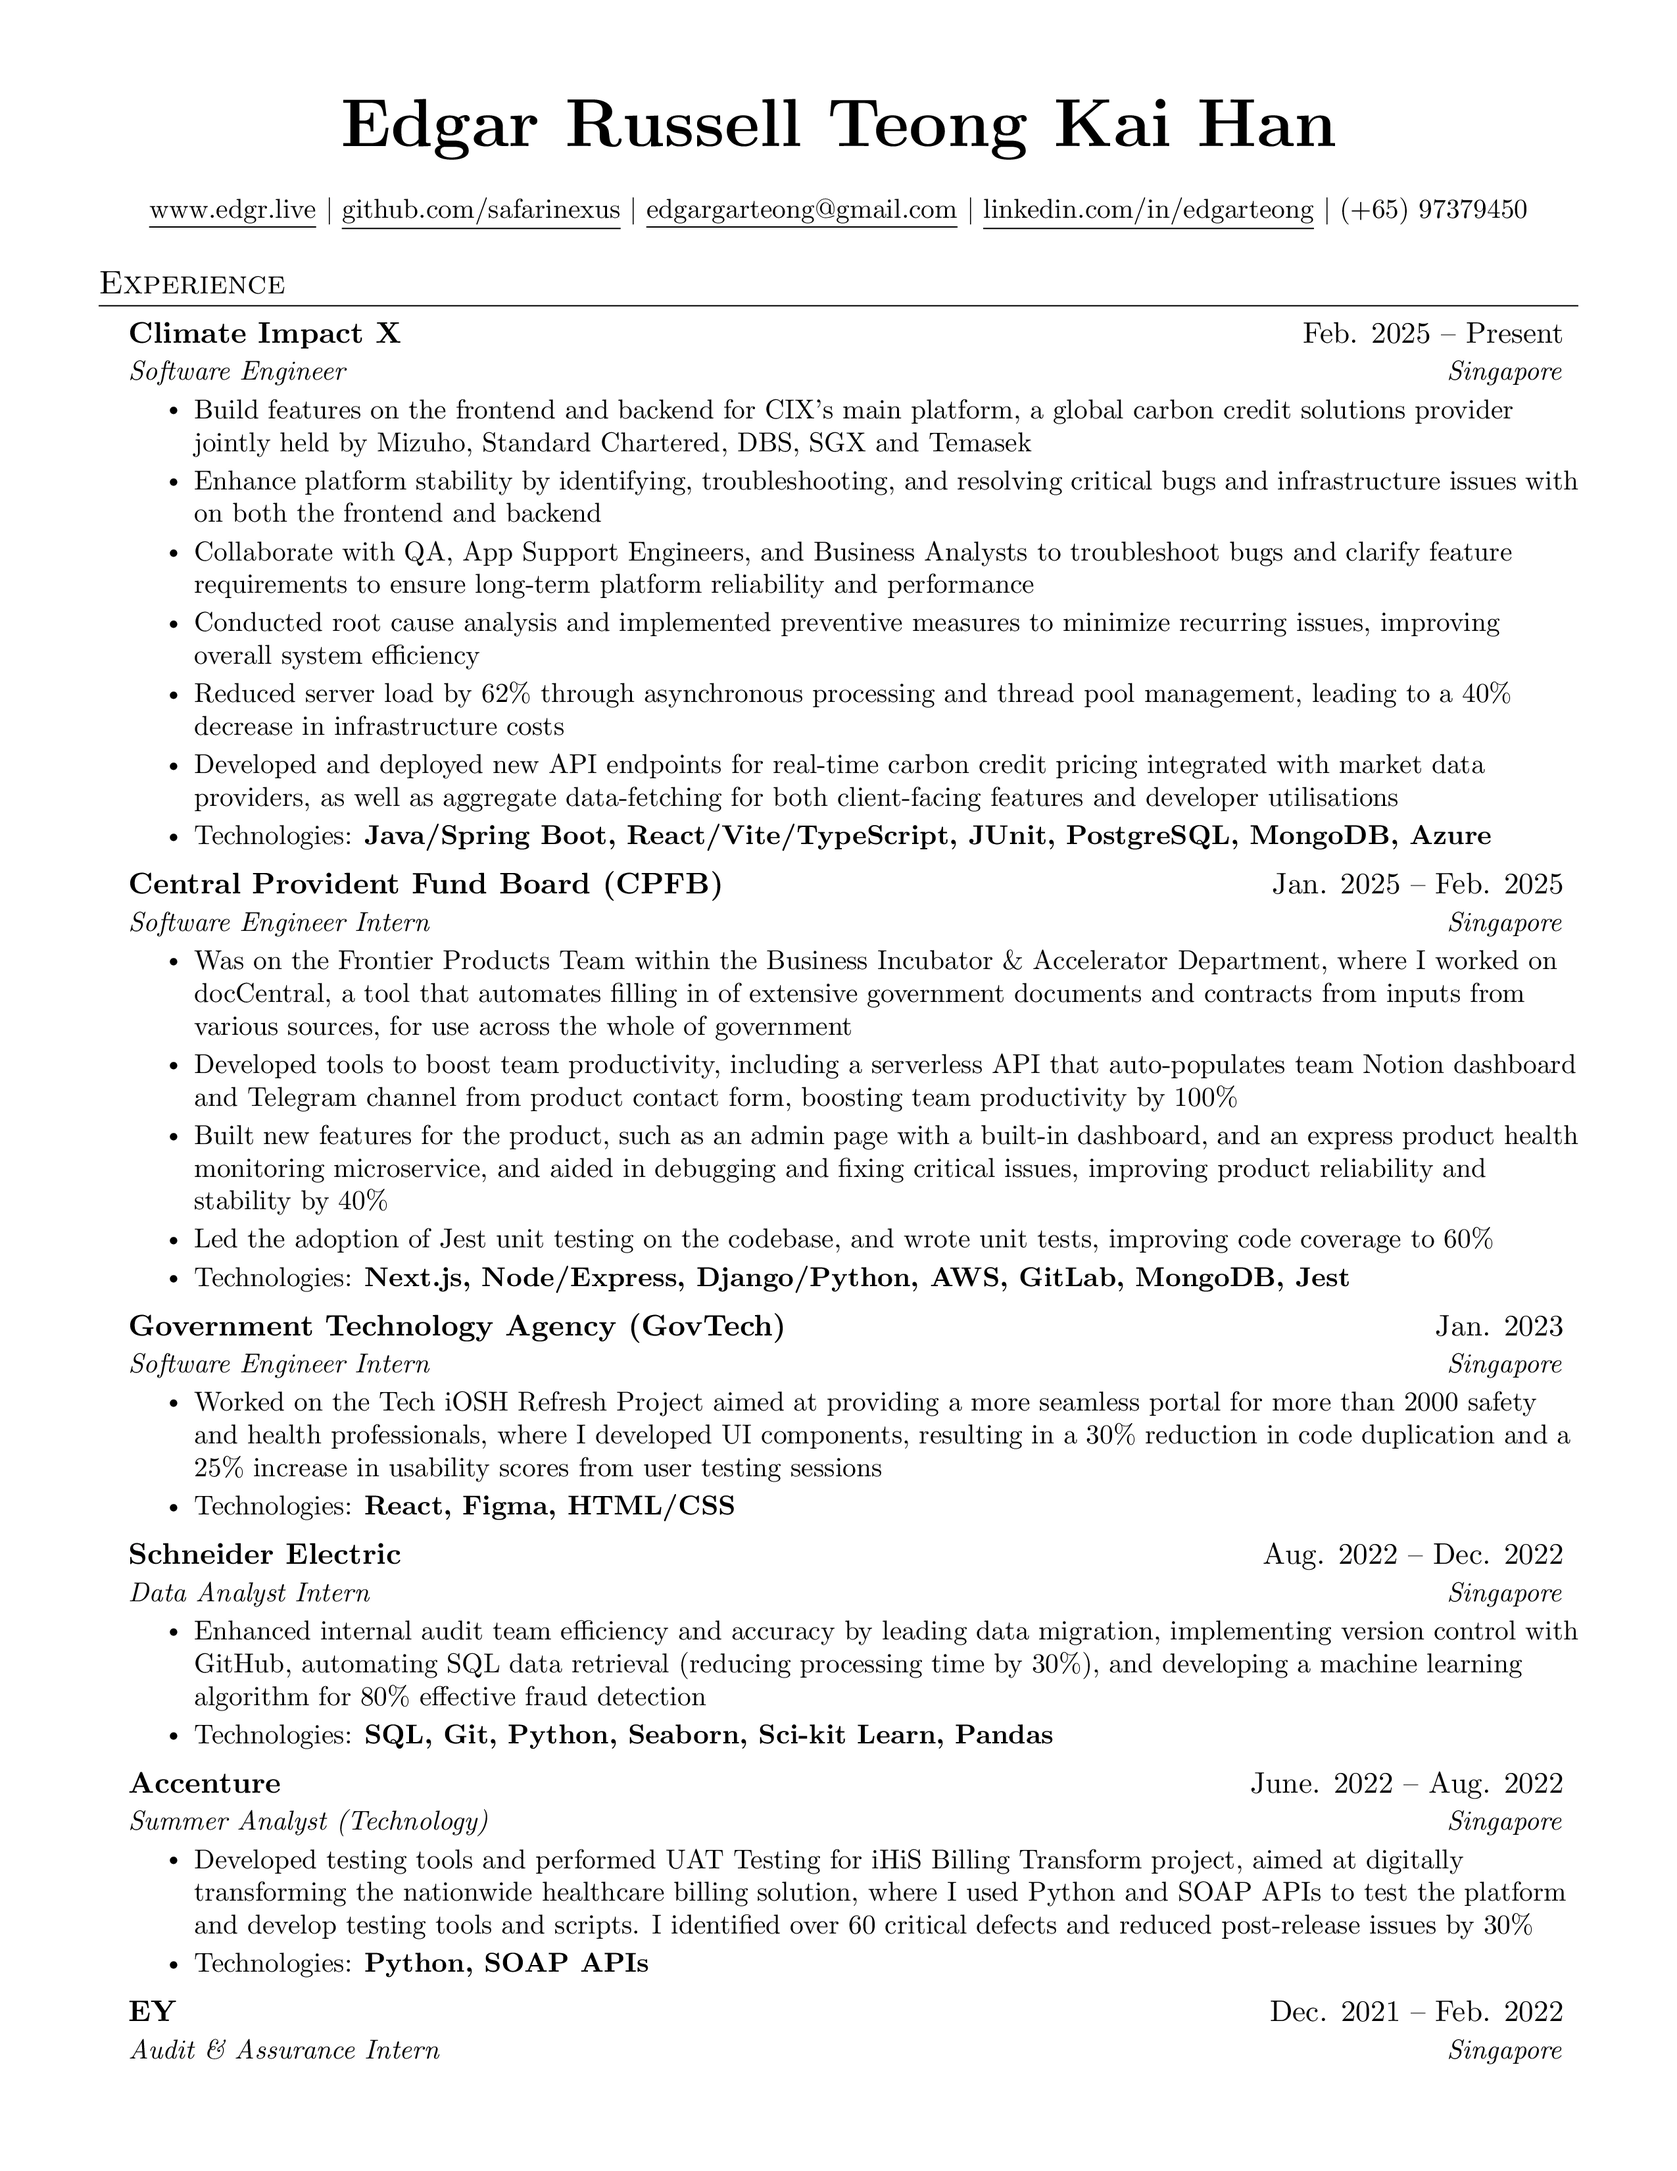
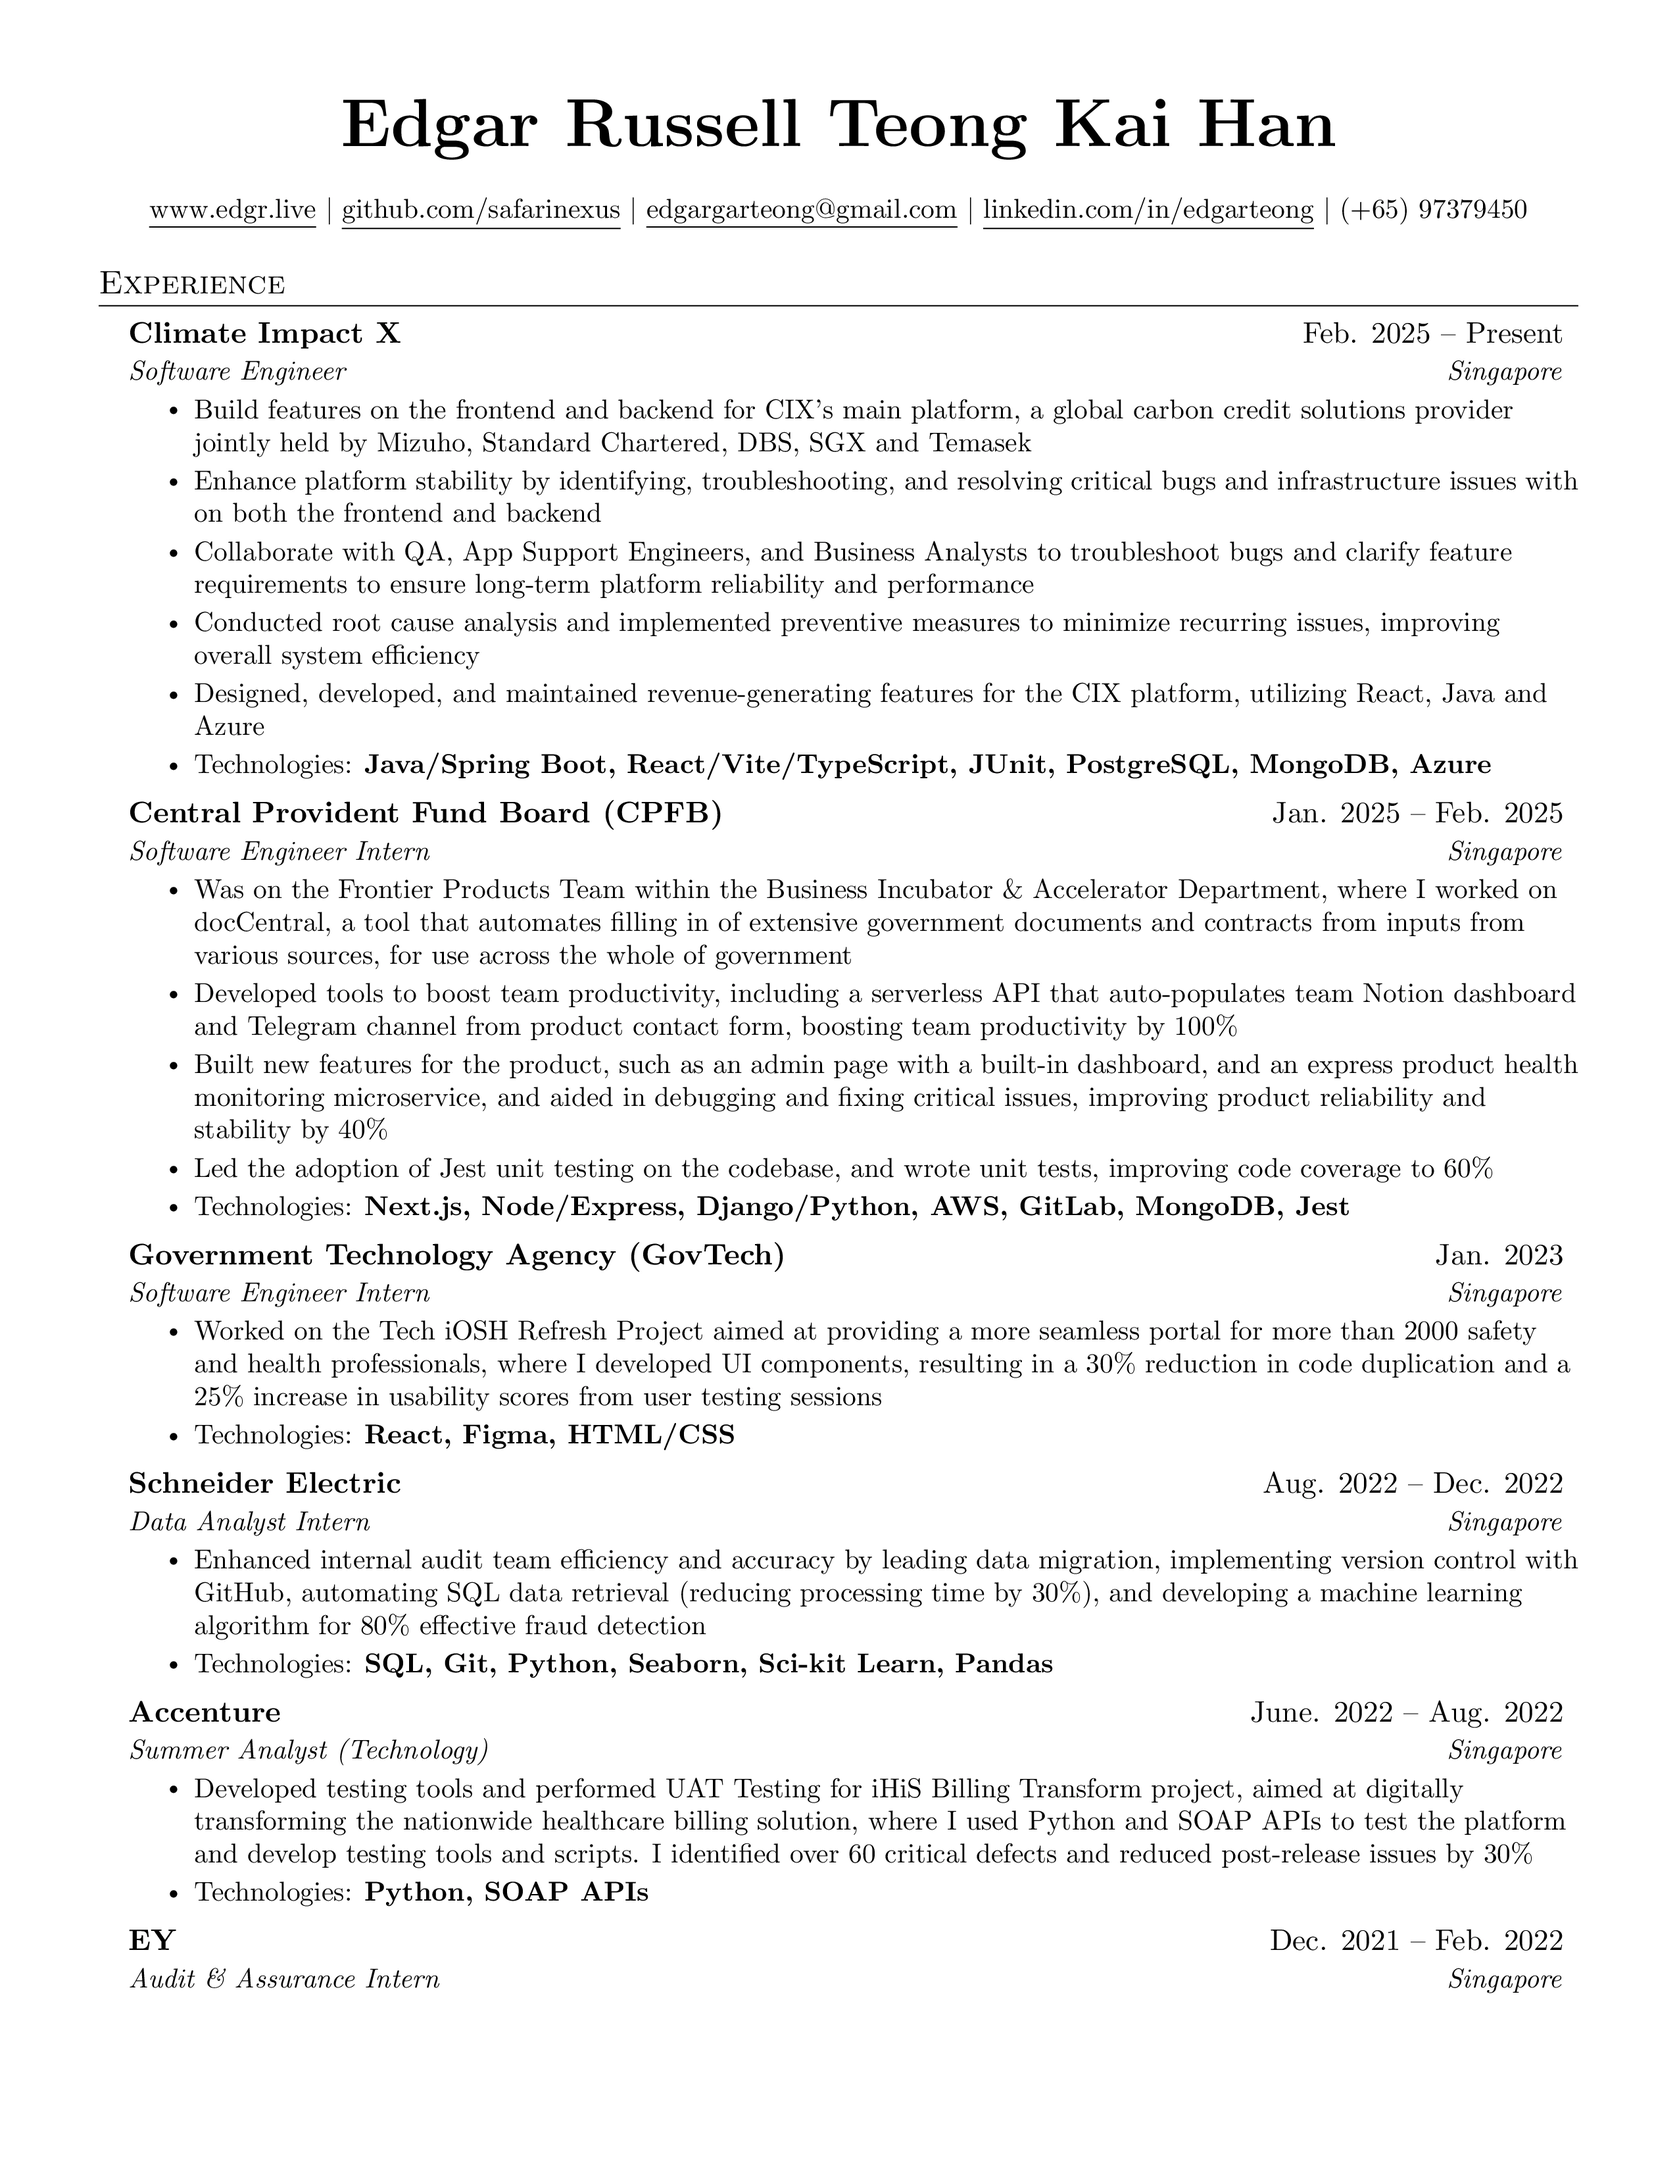
updated resume

Changed region(s): [[0.0929, 0.3121, 0.9294, 0.9364], [0.0929, 0.9052, 0.1239, 0.9364]]

diff --git a/edgr-resume.tex b/edgr-resume.tex
@@ -152,9 +152,10 @@
       \resumeItem{Enhance platform stability by identifying, troubleshooting, and resolving critical bugs and infrastructure issues with on both the frontend and backend}
       \resumeItem{Collaborate with QA, App Support Engineers, and Business Analysts to troubleshoot bugs and clarify feature requirements to ensure long-term platform reliability and performance}
       \resumeItem{Conducted root cause analysis and implemented preventive measures to minimize recurring issues, improving overall system efficiency}
-      \resumeItem{Reduced server load by 62\% through asynchronous processing and thread pool management, leading to a 40\% decrease in infrastructure costs}
-      \resumeItem{Developed and deployed new API endpoints for real-time carbon credit pricing integrated with market data providers, as well as aggregate data-fetching for both client-facing features and developer utilisations}
-    % \resumeItem{Led a team of 3 developers to build a new microservice} 
+      \resumeItem{Designed, developed, and maintained revenue-generating features for the CIX platform, utilizing React, Java and Azure}
+    %  \resumeItem{Reduced server load by 62\% through asynchronous processing and thread pool management, leading to a 40\% decrease in infrastructure costs}
+    %  \resumeItem{Developed and deployed new API endpoints for real-time carbon credit pricing integrated with market data providers, as well as aggregate data-fetching for both client-facing features and developer utilisations}
+    %  \resumeItem{Led a team of 3 developers to build a new microservice} 
       \resumeItem{Technologies: \textbf{Java/Spring Boot, React/Vite/TypeScript, JUnit, PostgreSQL, MongoDB, Azure}}
     \resumeItemListEnd
 
@@ -241,7 +242,7 @@
   \resumeSubHeadingListStart
     \resumeSubheading
       {Singapore Management University}{Aug. 2020 -- Dec. 2024}
-      {Bachelor of Accountancy}{Singapore}
+      {Bachelor of Accountancy with Second Major in Computer Science}{Singapore}
       \resumeItemListStart
         \resumeItem{\textbf {Relevant Coursework:} Web App Development, Computational Thinking (Data Structures \& Algorithms), Software Engineering, Data Management}
         \resumeItem{\textbf {Semester Abroad/Exchange:} University of St. Gallen, Switzerland (Fall 2023)}
